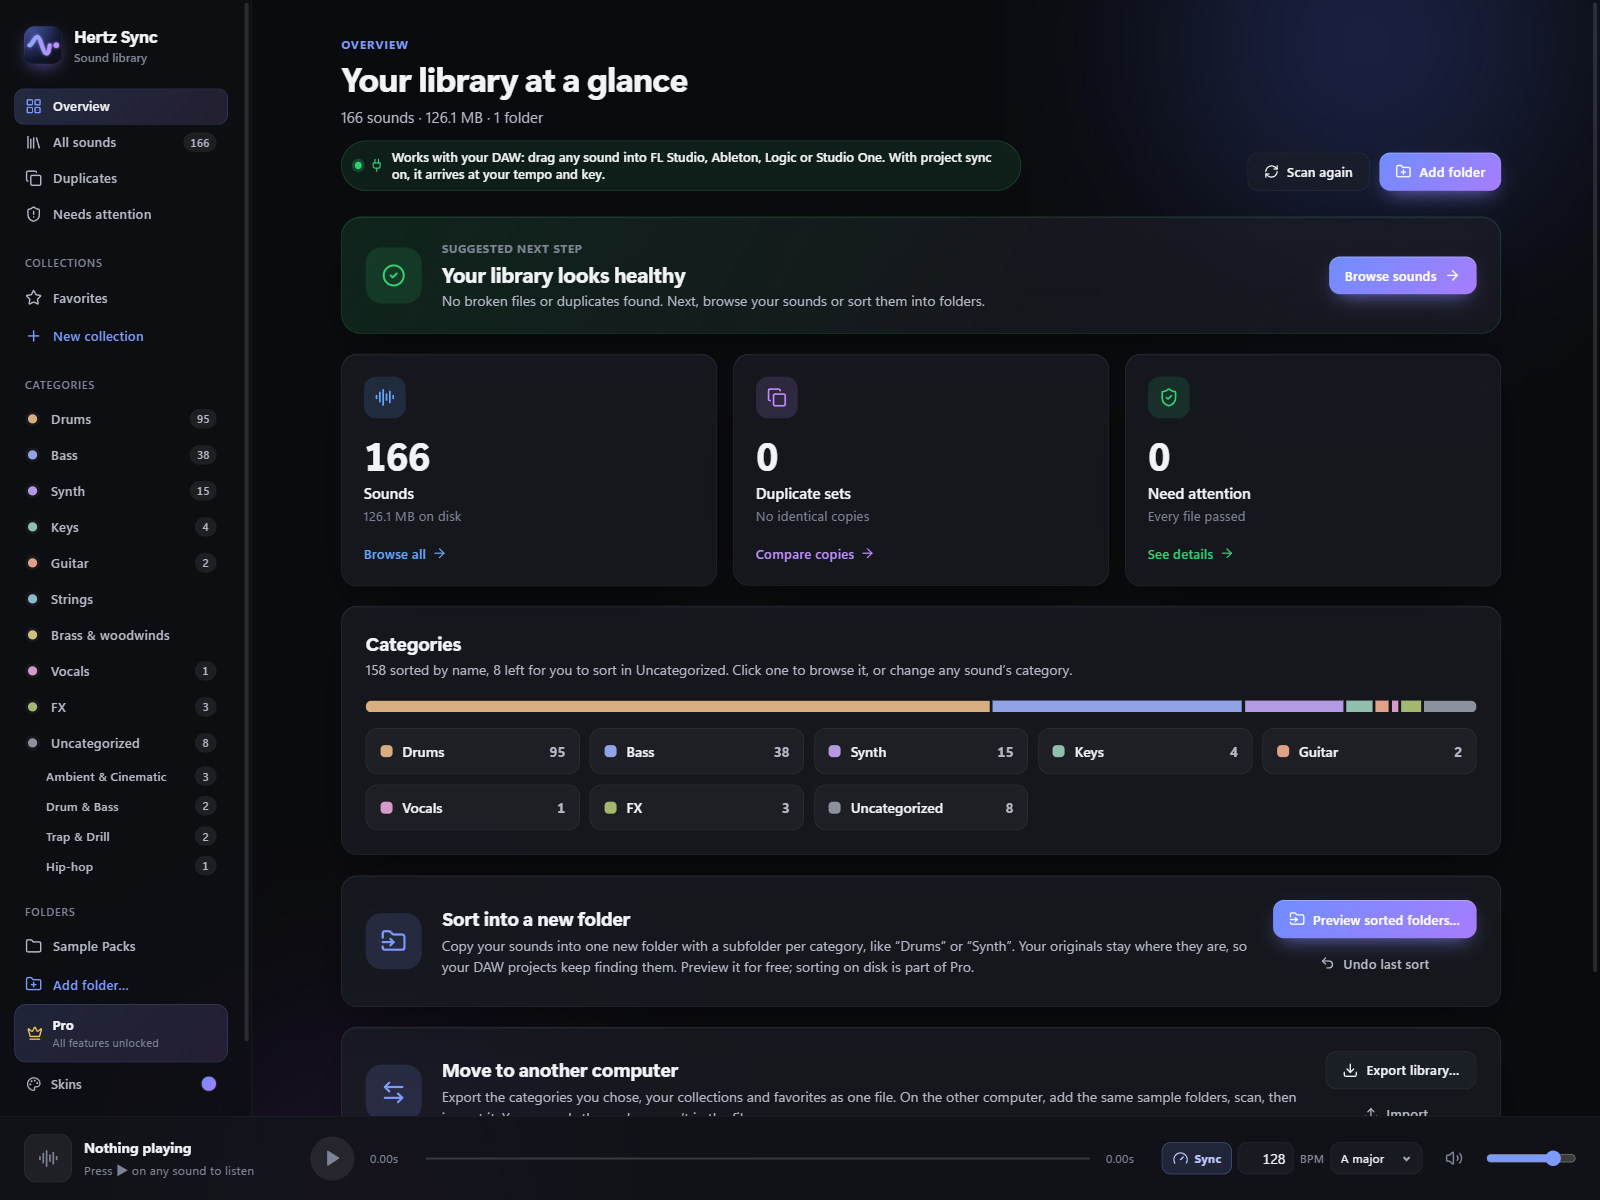
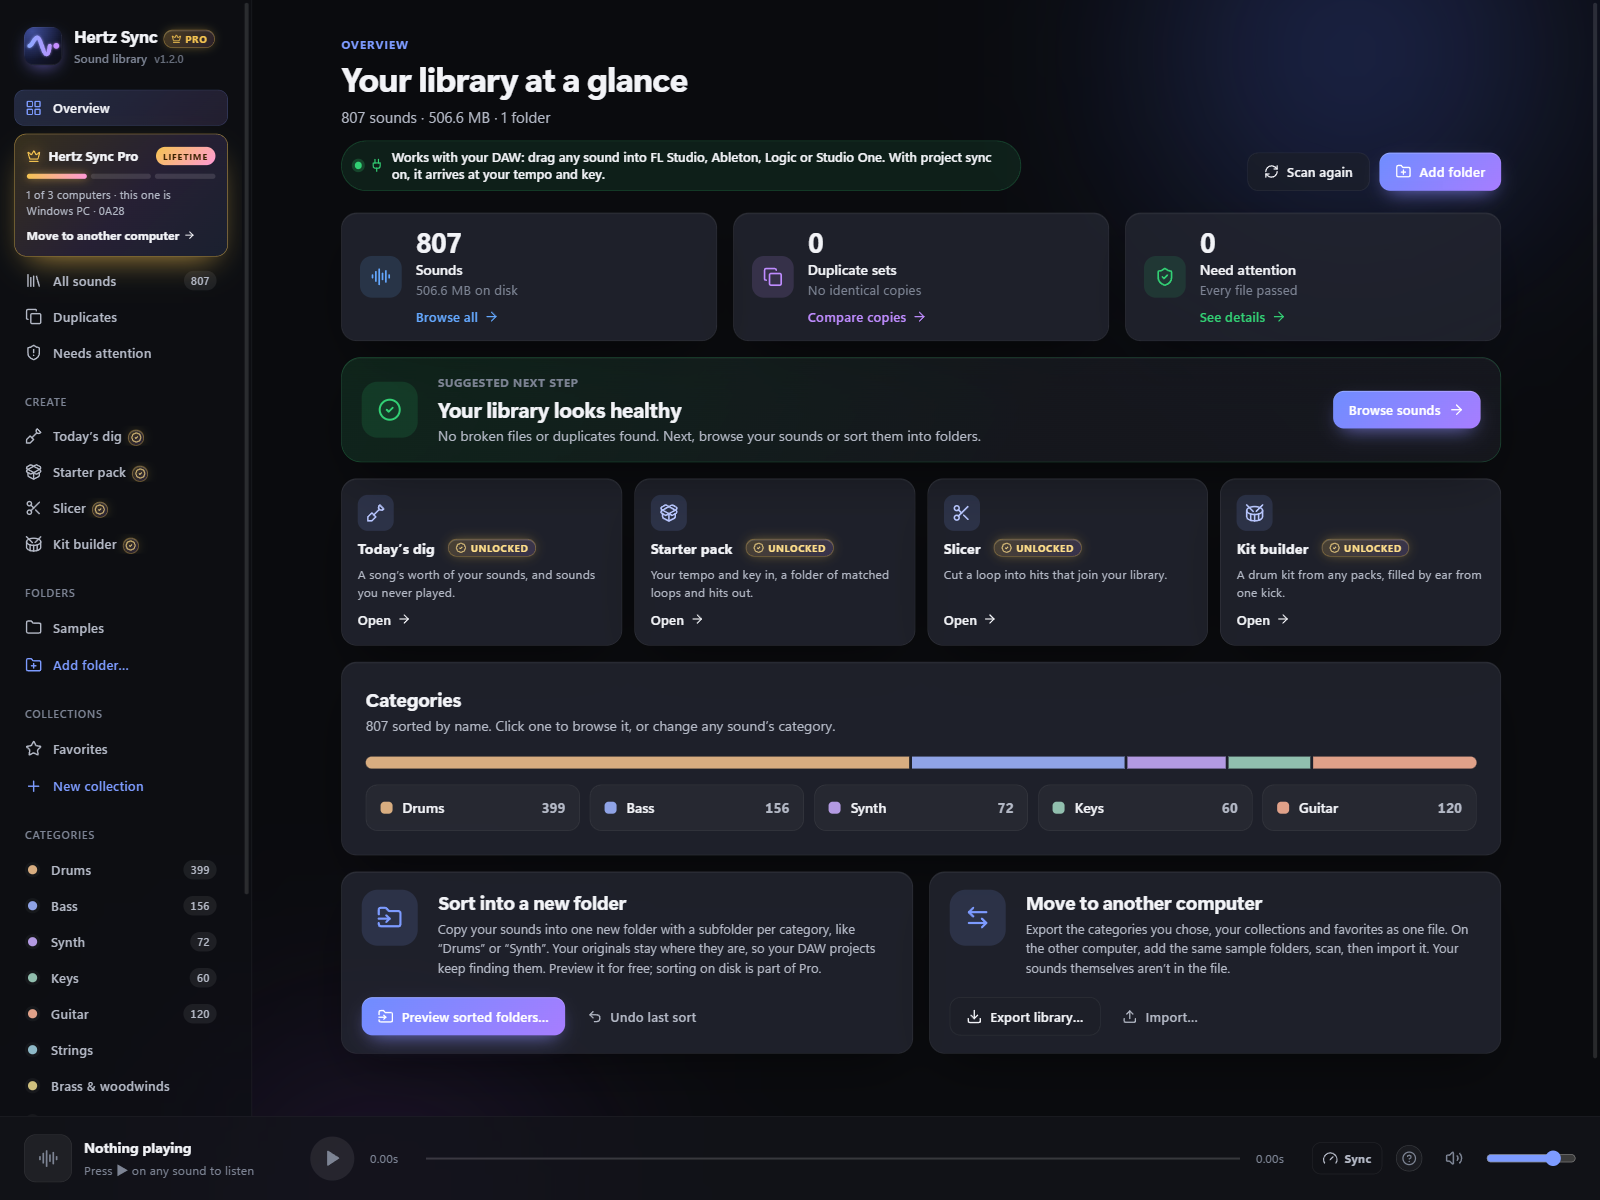
1.2.0: what's new (slicer, kit builder, today's dig, starter packs), 3 computers per key, Windows 1.2.0 download
Mac stays on 1.1.0 until the Mac build of 1.2.0 is out.

diff --git a/index.html b/index.html
@@ -18,6 +18,7 @@
   <nav class="links">
    <a href="#sync">In sync</a>
    <a href="#find">Find</a>
+   <a href="#create">Create</a>
    <a href="#pricing">Pricing</a>
    <a href="#faq">FAQ</a>
    <a class="btn btn-primary btn-sm" href="#download">Download free</a>
@@ -124,12 +125,50 @@
  </div>
 </section>
 
+<section id="create">
+ <div class="wrap">
+  <span class="eyebrow center">New in 1.2 · Pro · Windows now, Mac soon</span>
+  <h2>Your packs, turned into new sounds</h2>
+  <p class="sub">The loops you already own become hits, kits and fresh ideas, matched to your track and ready to drag in.</p>
+  <div class="feature">
+   <div class="feature-text">
+    <span class="eyebrow">Slicer</span>
+    <h3>Cut any loop into sounds of your own</h3>
+    <p>Drum loops are cut on every hit and each slice is named by ear: Kick, Snare, Hat. Melodic loops are cut on the beat. Lock the slices you like, move the sensitivity, and the rest re-cut around them.</p>
+    <p>The slices become files in your library, ready for the kit builder. Seeing the cuts and listening are free; writing the files is Pro.</p>
+   </div>
+   <div class="frame"><div class="crop crop-slicer"><img src="img/7-slicer.png" alt="A drum loop cut into 30 slices, each named by what it is" loading="lazy" width="1600" height="1200"></div></div>
+  </div>
+  <div class="feature">
+   <div class="feature-text">
+    <span class="eyebrow">Kit builder</span>
+    <h3>A drum kit from every pack you own</h3>
+    <p>Pick a kick and "Fill the kit" finds the closest snare, clap, hats, perc and cymbal in your whole library, by how they sound. Swap any slot, keep as many kits as you like, and export each one as a numbered folder for your sampler or drum machine.</p>
+   </div>
+   <div class="frame"><div class="crop crop-kit"><img src="img/8-kit-builder.png" alt="A kit filled by ear from one kick: snare, clap, hats, perc and cymbal" loading="lazy" width="1600" height="1200"></div></div>
+  </div>
+  <div class="feature">
+   <div class="feature-text">
+    <span class="eyebrow">Today's dig</span>
+    <h3>The packs you bought, finally heard</h3>
+    <p>Every day Hertz Sync digs out sounds you own but have never played, a different category or style on every card. Or have it draw a song's worth of parts that play together: one key, one tempo, drums, bass, chords and a lead.</p>
+   </div>
+   <div class="frame"><div class="crop crop-dig"><img src="img/6-todays-dig.png" alt="Today's dig: eight sounds from the library that were never played" loading="lazy" width="1600" height="1200"></div></div>
+  </div>
+  <div class="grid">
+   <div class="card"><h3>Starter packs</h3><p>Set your track's tempo and key and get a folder of drum loops, bass, melodic loops, pads and hits from your whole library, already matched. Drag the lot into your DAW.</p></div>
+   <div class="card"><h3>Three computers, move it yourself</h3><p>One key unlocks Pro on 3 of your computers at a time. New computer? Deactivate the old one in the app, or free its seat on <a href="https://hertz-sync-license.rc0900989.workers.dev">your computers page</a>. No emails, no waiting.</p></div>
+   <div class="card"><h3>Five extra skins</h3><p>Tape, Phosphor, Ember, Mint and Noir, the new black glass with a holographic glow. Every Pro feature shows Unlocked, for life.</p></div>
+  </div>
+ </div>
+</section>
+
 <section id="trust" class="trust">
  <div class="wrap">
   <div class="trust-row">
    <div><h3>No subscription</h3><p>Pro is one payment, $29, with every 1.x update. Not happy? Full refund within 7 days.</p></div>
    <div><h3>Your files stay yours</h3><p>No account, no cloud, no tracking. Scanning, sorting and the AI all run on your computer.</p></div>
-   <div><h3>Works offline</h3><p>Nothing about your library is ever sent. Online, it only checks your license key with Gumroad and asks GitHub whether a newer version is out.</p></div>
+   <div><h3>Works offline</h3><p>Nothing about your library is ever sent. Online, it only checks your license key with the Hertz Sync license server and asks GitHub whether a newer version is out.</p></div>
   </div>
  </div>
 </section>
@@ -148,8 +187,9 @@
      <li>Categories from file and folder names</li>
      <li>Preview your library sorted into folders</li>
      <li>Hear loops in your project's tempo and key</li>
-     <li>Drag sounds into your DAW</li>
-     <li>Favorites + 2 collections</li>
+     <li>Drag sounds into your DAW, 20 a day already matched</li>
+     <li>Preview the slicer, kit builder and starter packs</li>
+     <li>Favorites + 2 collections, 1 kit</li>
     </ul>
     <a class="btn btn-ghost" href="#download">Download free</a>
    </div>
@@ -158,16 +198,18 @@
     <div class="price">$29 <small>one-time</small></div>
     <ul>
      <li>Everything in Free, no sound limit</li>
-     <li>Drag into your DAW already in your project's tempo and key</li>
+     <li>Every drag already in your project's tempo and key</li>
+     <li>Slicer, kit builder, starter packs and today's dig</li>
      <li>Sort into a new folder on disk, with undo</li>
      <li>Find similar sounds (on-device AI)</li>
      <li>BPM, length and key filters</li>
-     <li>Unlimited collections, 4 extra skins</li>
+     <li>Unlimited collections, 5 extra skins</li>
+     <li>3 computers at a time, move Pro yourself anytime</li>
     </ul>
     <a class="btn btn-primary" href="https://gumroad.com/l/nphruc">Get Pro · $29</a>
    </div>
   </div>
-  <p class="note" style="text-align:center">Secure checkout by Gumroad. Your license key arrives by email; paste it into the app to unlock Pro on up to 5 activations.</p>
+  <p class="note" style="text-align:center">Secure checkout by Gumroad. Your license key arrives by email; paste it into the app to unlock Pro on 3 computers at a time. New computer? Deactivate the old one in the app, or free its seat on <a href="https://hertz-sync-license.rc0900989.workers.dev">your computers page</a>. No emails, no waiting.</p>
  </div>
 </section>
 
@@ -180,18 +222,18 @@
     <h3>Windows</h3>
     <p>Windows 10 or 11, 64-bit</p>
     <a class="btn btn-primary" href="https://github.com/rc0900989-rgb/hertzsync/releases/latest/download/HertzSync-Setup-x64.exe">Download for Windows</a>
-    <p class="hash">Version 1.1.0 · SHA-256<br><code>616b727cf7fac220b9e0fff98de8be69fbd4672fe543cedc4abf65ce83322625</code></p>
+    <p class="hash">Version 1.2.0 · SHA-256<br><code>baaa4ef2388d6770452367b12b074bb30ed58cb85ea8c4104e3ac8c16bec2e81</code></p>
    </div>
    <div class="card">
     <h3>macOS</h3>
     <p>macOS 11 or later, Apple Silicon (M1 and newer)</p>
-    <a class="btn btn-primary" href="https://github.com/rc0900989-rgb/hertzsync/releases/latest/download/HertzSync-macOS-AppleSilicon.dmg">Download for Mac</a>
-    <p class="hash">Version 1.1.0 · SHA-256<br><code>16ddf56e222c3bef360b420e29cd8caee5fe35fc0bdc2ebca84d939fb6cc3c7f</code></p>
+    <a class="btn btn-primary" href="https://github.com/rc0900989-rgb/hertzsync/releases/download/v1.1.0/HertzSync-1.1.0-macOS-AppleSilicon.dmg">Download for Mac</a>
+    <p class="hash">Version 1.1.0 · 1.2 for Mac is coming soon · SHA-256<br><code>16ddf56e222c3bef360b420e29cd8caee5fe35fc0bdc2ebca84d939fb6cc3c7f</code></p>
    </div>
   </div>
   <div class="safe" id="install-help">
    <h3>Safe to install: no viruses, ads or bundled software</h3>
-   <p>Hertz Sync contains no malware, adware or third-party extras, and collects no data: your library never leaves your computer. The only thing it ever sends is your license key to Gumroad, to check it.</p>
+   <p>Hertz Sync contains no malware, adware or third-party extras, and collects no data: your library never leaves your computer. The only thing it ever sends is your license key and an anonymous id for your computer, to check the key.</p>
    <p><b>Why Windows or macOS may warn you anyway:</b> both show a warning for any app from a new, independent developer that isn't yet signed with a paid certificate. It's about who published the file, not about anything found in it.</p>
    <ul>
     <li><b>Windows</b> "Windows protected your PC": click <i>More info</i>, then <i>Run anyway</i>.</li>
@@ -200,7 +242,7 @@
     <li><b>macOS says the app "is damaged"</b>: open Terminal, run <code>xattr -dr com.apple.quarantine "/Applications/Hertz Sync.app"</code> and open the app again. This only removes the "downloaded from the internet" mark from Hertz Sync.</li>
    </ul>
    <p>You only do this once; after that Hertz Sync opens normally.</p>
-   <p>To check your download is the original, compare its SHA-256 with the one above (Windows: <code>certutil -hashfile HertzSync-Setup-x64.exe SHA256</code>; Mac: <code>shasum -a 256 HertzSync-macOS-AppleSilicon.dmg</code>). You can also scan it at <a href="https://www.virustotal.com/">VirusTotal</a>.</p>
+   <p>To check your download is the original, compare its SHA-256 with the one above (Windows: <code>certutil -hashfile HertzSync-Setup-x64.exe SHA256</code>; Mac: <code>shasum -a 256 HertzSync-1.1.0-macOS-AppleSilicon.dmg</code>). You can also scan it at <a href="https://www.virustotal.com/">VirusTotal</a>.</p>
   </div>
   <p class="note" style="text-align:center"><a href="https://github.com/rc0900989-rgb/hertzsync/releases">All versions and release notes</a></p>
  </div>
@@ -212,8 +254,8 @@
   <div class="faq">
    <details><summary>Does it change or move my sample files?</summary><p>Not unless you ask it to. Categories live inside Hertz Sync. Sorting on disk copies your sounds into a new folder by default and leaves the originals where they are; moving is optional and can be undone.</p></details>
    <details><summary>Which DAWs does it work with?</summary><p>Any DAW that accepts a dropped audio file: FL Studio, Ableton Live, Logic Pro, Studio One, Reaper, Cubase, Bitwig and more. Matched copies are standard WAV files kept in Music/Hertz Sync/Synced Sounds, so your projects keep finding them.</p></details>
-   <details><summary>Does anything get uploaded?</summary><p>No. Scanning, sorting and the AI listening all run on your computer. The only network request is checking your license key with Gumroad when you activate Pro and once a day after that.</p></details>
-   <details><summary>How many computers can I use Pro on?</summary><p>One key unlocks Pro on up to 5 activations, enough for a desktop, a laptop and a few reinstalls. If you run out, reply to your purchase email and we'll reset it.</p></details>
+   <details><summary>Does anything get uploaded?</summary><p>No. Scanning, sorting and the AI listening all run on your computer. The only network request is checking your license key when you activate Pro and once a day after that.</p></details>
+   <details><summary>How many computers can I use Pro on?</summary><p>One key unlocks Pro on 3 computers at a time. Moving to a new one? Deactivate Pro on the old one in the app (Pro window), or free its seat on <a href="https://hertz-sync-license.rc0900989.workers.dev">your computers page</a> if that computer is lost or won’t start. Reinstalling on the same computer uses no new seat.</p></details>
    <details><summary>Who makes Hertz Sync?</summary><p>I’m Quillon Holden, an independent developer and music producer. I built Hertz Sync under my label Vykra because my own sample folders had become impossible to search, and finding a loop that fit the track took longer than making the track. Questions or ideas? Reply to your purchase email and it comes straight to me.</p></details>
    <details><summary>Is Pro a subscription?</summary><p>No. It's a one-time $29 purchase and includes every 1.x update.</p></details>
    <details><summary>Can I get a refund?</summary><p>Yes. Within 7 days of buying, reply to your purchase email and you'll get a full refund, no reason needed. See the <a href="refund.html">refund policy</a>.</p></details>

diff --git a/privacy.html b/privacy.html
@@ -19,7 +19,7 @@
 
  <h2>What is sent over the internet</h2>
  <ul>
-  <li><b>License checks (Pro only).</b> When you activate Pro, and about once a day after that, the app sends your license key and our product ID to Gumroad to check that the purchase is valid. Nothing about your library is included.</li>
+  <li><b>License checks (Pro only).</b> When you activate Pro, and about once a day after that, the app sends your license key, an anonymous id for your computer (a hash, not its name or your user name) and a short label like “Windows PC · 7F3A” to the Hertz Sync license server (run on Cloudflare). It checks the key with Gumroad and keeps, for each key, only a hash of the key and the ids, labels and dates of the computers using it, so a key can be used on 3 computers at a time. Nothing about your library is included.</li>
   <li><b>Update check.</b> When the app starts, it asks GitHub for the number of the latest Hertz Sync version, so it can tell you when an update is out. Nothing about you or your library is sent; GitHub sees an ordinary request from your IP address, as with any website.</li>
   <li><b>Buying Pro.</b> Purchases are handled by Gumroad, which processes your name, email and payment details under its own privacy policy. We receive what Gumroad shares with sellers, such as your email and order details, and use it only to support your purchase.</li>
  </ul>

diff --git a/refund.html b/refund.html
@@ -19,7 +19,7 @@
  <p>After 7 days, purchases are final, except where the law where you live requires otherwise.</p>
 
  <h2>If something doesn't work</h2>
- <p>If Pro doesn't activate or a feature doesn't work as described, reply to your Gumroad purchase receipt email. We'll help you fix it, reset your activations, or sort it out with you.</p>
+ <p>If Pro doesn't activate or a feature doesn't work as described, reply to your Gumroad purchase receipt email. We'll help you fix it, free a seat for a new computer, or sort it out with you.</p>
 </main>
 <footer><div class="wrap"><span>Hertz Sync is made by <b>Quillon Holden</b> at <b>Vykra</b>. © 2026 Vykra</span><span><a href="privacy.html">Privacy</a> · <a href="refund.html">Refunds</a> · <a href="terms.html">Terms</a></span></div></footer>
 <!-- Cloudflare Web Analytics: cookieless visit counts (see privacy.html) --><script type='module' src='https://static.cloudflareinsights.com/beacon.min.js' data-cf-beacon='{"token": "53de6b1d5b154df18a50004d45ef5cc4"}'></script>

diff --git a/style.css b/style.css
@@ -52,11 +52,16 @@ h1,.feature h3{text-wrap:balance}
 .crop-overview img{width:145%;left:-27%;top:-9%}
 .crop-dialog img{width:180%;left:-40%;top:-38%}
 .crop-dupes img{width:138%;left:-29%;top:-27%}
+.crop-slicer img{width:138%;left:-30%;top:-27%}
+.crop-kit img{width:176%;left:-66%;top:-34%}
+.crop-dig img{width:138%;left:-30%;top:-67%}
 /* Pain-led sections: a centred label over each problem, then before/after and the fix. */
 .eyebrow.center{display:block;text-align:center}
 .sub code{font-size:.9em;background:rgba(255,255,255,.06);padding:1px 6px;border-radius:6px}
 #sync .feature,#find .feature{margin:72px 0 40px}
 #cleanup .feature,#organize .feature{margin-bottom:0}
+#create .feature{margin:72px 0 40px}
+#create .feature+.feature{margin-top:96px}
 .compare{display:grid;grid-template-columns:1fr 1fr;gap:20px;max-width:860px;margin:0 auto}
 .compare-col{border-radius:18px;padding:24px 26px;border:1px solid var(--line);background:var(--panel)}
 .compare-col h3{margin:0 0 12px;font-size:17px}

diff --git a/terms.html b/terms.html
@@ -17,7 +17,7 @@
  <h2>License</h2>
  <ul>
   <li>The free version may be used by anyone, for personal or commercial music production, at no cost.</li>
-  <li>A Pro license is for one person. It unlocks Pro on up to 5 activations across your own computers.</li>
+  <li>A Pro license is for one person. It unlocks Pro on up to 3 of your own computers at a time.</li>
   <li>You may not share, resell or publish license keys, or modify, reverse-engineer or redistribute the app.</li>
  </ul>
 
